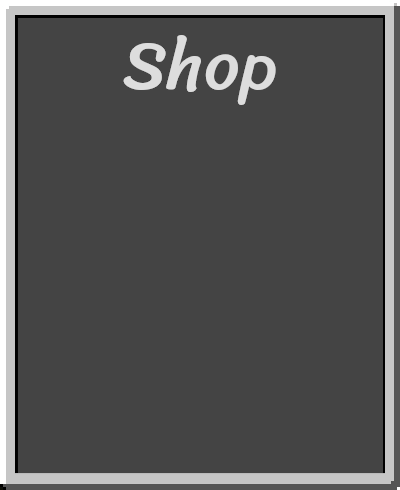
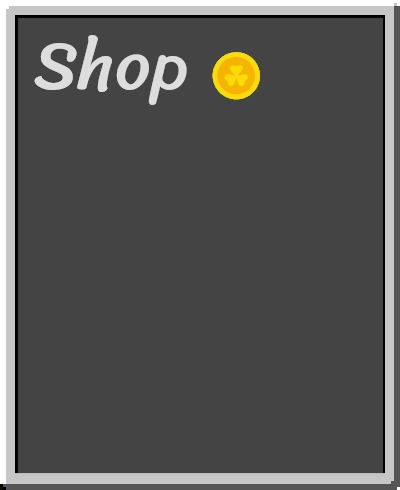
(+) display money in shop

Changed region(s): [[0.09, 0.0612, 0.69, 0.2143]]

diff --git a/src/init/init_inventory.c b/src/init/init_inventory.c
@@ -22,6 +22,8 @@ void init_inventory(inventory_t *inventory, rpg_t *rpg)
     {825, 760}, "assets/fonts/Sriracha-Regular.ttf"});
     inventory->quests = create_text((init_text_t){120, "\0", sfBlack,
     {825, 760}, "assets/fonts/Sriracha-Regular.ttf"});
+    inventory->money_shop = create_text((init_text_t){120, "", sfBlack,
+    {700 + 60, 90 - 80}, "assets/fonts/Sriracha-Regular.ttf"});
     inventory->inventory_case[0].pos = rpg->spritesheet[SP_INVENTORY].pos;
     inventory->inventory_case[I_CASE_1].item_spritesheet = SP_ITEM_SHOVEL;
 

diff --git a/src/draw_all.c b/src/draw_all.c
@@ -50,6 +50,10 @@ void draw_all_text(rpg_t *rpg)
         write_text(rpg->begin.window, rpg->player_stats.inventory.money);
         draw_quests_inventory(rpg);
     }
+    if (rpg->screen[SC_GUI_SHOP].active) {
+        sfText_setString(rpg->player_stats.inventory.money_shop, my_itoa(rpg->player_stats.money));
+        write_text(rpg->begin.window, rpg->player_stats.inventory.money_shop);
+    }
     draw_text_notif(rpg);
 }
 

diff --git a/include/structs_stats.h b/include/structs_stats.h
@@ -22,6 +22,7 @@ typedef struct {
     sfText *speed;
     sfText *life;
     sfText *quests;
+    sfText *money_shop;
 } inventory_t;
 
 typedef struct {
